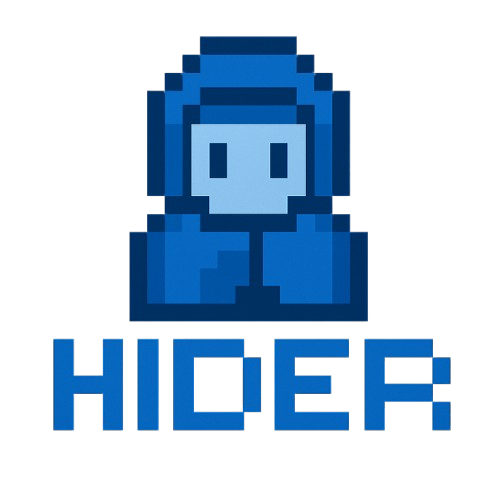
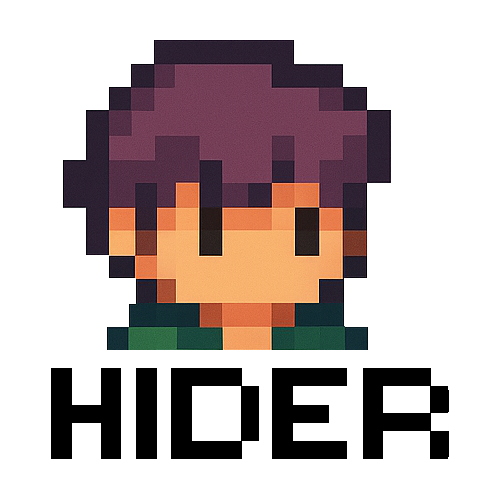
added frames for the music and fixed it
added seeker and hider PNGs

diff --git a/src/gui/menu/menu_textures_manager.c b/src/gui/menu/menu_textures_manager.c
@@ -112,12 +112,19 @@ render_menu_objects(GameMenu* menu){
     // Render music button
     if(menu->music && menu->music->texture){
         SDL_SetRenderDrawColor(menu->renderer,
-                              menu->music->is_hovered ? 150 : 128,  // Gray values
-                              menu->music->is_hovered ? 150 : 128,  // Gray values
-                              menu->music->is_hovered ? 150 : 128,  // Gray values
-                              255);
+                      menu->music->is_hovered ? 150 : 128,  // Gray values
+                      menu->music->is_hovered ? 150 : 128,  // Gray values
+                      menu->music->is_hovered ? 150 : 128,  // Gray values
+                      255);
         SDL_RenderFillRect(menu->renderer, &menu->music->rect);
-        SDL_RenderCopy(menu->renderer, menu->music->texture, NULL, &menu->music->rect);
+        
+        SDL_Rect srcRect = {
+            menu->music_current_frame * MUSIC_FRAME_WIDTH,
+            0,
+            MUSIC_FRAME_WIDTH,
+            MUSIC_FRAME_HEIGHT
+        };
+        SDL_RenderCopy(menu->renderer, menu->music->texture, &srcRect, &menu->music->rect);
     }
 
     // Render hider seeker button

diff --git a/include/gui/menu/main_menu.h b/include/gui/menu/main_menu.h
@@ -23,7 +23,7 @@
 #define FONT_PATH "./assets/Times_New_Roman_Bold.ttf"
 
 #define MUTE_MUSIC Mix_VolumeMusic(0)
-#define UNMUTE_MUSIC Mix_VolumeMusic(MIX_MAX_VOLUME)
+#define UNMUTE_MUSIC Mix_VolumeMusic(MIX_MAX_VOLUME / 8)
 #define IS_MUSIC_MUTE Mix_VolumeMusic(-1) == 0
 
 
@@ -43,6 +43,7 @@ typedef struct GameMenu {
     Button *exit;
     Button *hider_seeker;
     Button *music;
+    int music_current_frame;
     Button *start;
     bool is_hider;
     bool is_running;

diff --git a/src/gui/menu/menu_event_manager.c b/src/gui/menu/menu_event_manager.c
@@ -66,9 +66,11 @@ menu_handler(GameMenu* menu, SDL_Event event){
             printf("Music button clicked.\n");
             if (IS_MUSIC_MUTE) {
                 UNMUTE_MUSIC;
+                menu->music_current_frame = 0;
                 printf("Music unmuted.\n");
             } else {
                 MUTE_MUSIC;
+                menu->music_current_frame = 1;
                 printf("Music muted.\n");
             }
         }

diff --git a/include/gui/menu/menu_textures_manager.h b/include/gui/menu/menu_textures_manager.h
@@ -1,5 +1,8 @@
 #include "main_menu.h"
 
+#define MUSIC_FRAME_WIDTH 21
+#define MUSIC_FRAME_HEIGHT 23
+
 void load_texture(GameMenu* menu);
 
 void load_button(GameMenu* menu);
